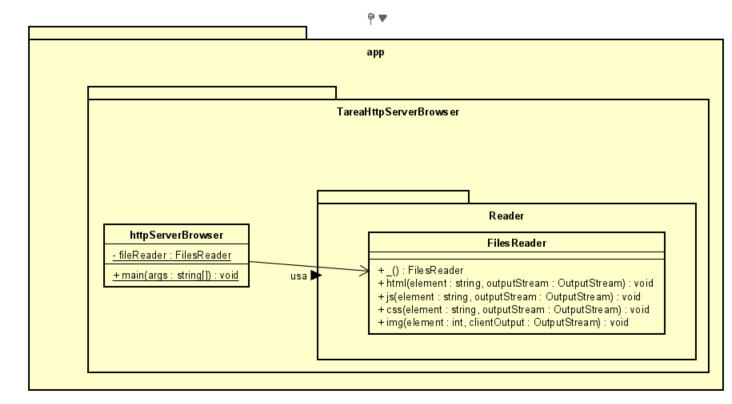
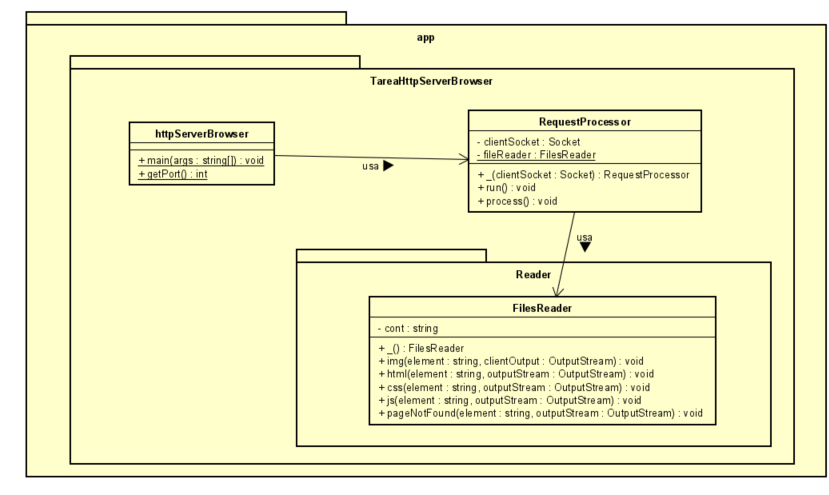
Tarea Finalizada

Changed region(s): [[0.0301, 0.0, 1.0, 0.9802]]

diff --git a/README.md b/README.md
@@ -1,7 +1,7 @@
 # Tarea ARSW Inter (HttpServer Concurrente que lee imagenes, js, css y html)
 
 ## Autor
-Julian Adolfo Peña Marin
+** Julian Adolfo Peña Marin **
 
 ## Descripcion
 La aplicacion es una version del servidor http realizado anteriormente pero esta vez se hizo que fuera un servisor concurrente, que devuelve archivos con extensiones css que son archivos de estilo, extensiones "js" que son archivos javascript, extensiones "html" que muestra como tal una pagina web y una imagen.
@@ -53,7 +53,11 @@ Para devolver el html, en el siguiente link
     https://cryptic-castle-98984.herokuapp.com/
 ```
 
-Como resultado se obtiene
+Como resultado se obtiene, el mensaje de javascript que es una alerta como se muestra en la siguiente imagen
+
+![](img/imgHtmlJs.png)
+
+Y despues muestra la pagina html con el css aplicado, como se ve en la siguiente imagen
 
 ![](img/herokuHtml.png)
 
@@ -91,4 +95,14 @@ A continuacion se presenta el diagrama de clases de la arquitectura para la tare
 
 ![](img/diagramaClases.png)
 
-Como se puede observar la arquitectura se encuentra dentro de tres paquetes, el primero de ellos es el paquete con nombre app, el cual es el principal y en donde estan contenidos los otros dos, el segundo paquete es el que tiene como nombre TareaHttpServerBrowser, el cual tiene la clase principal y otro paquete de nombre Reader. En la clase principal se tiene el metodo main , que es donde esta la implementacion del servidor y en donde verifica la extension del archivo que le llega al path, una vez verificado llama a uno de los metodos de la clase que esta en el paquete Reader para obtener el resultado correcto.
+Como se puede observar la arquitectura se encuentra dentro de tres paquetes, el primero de ellos es el paquete con nombre app, el cual es el principal y en donde estan contenidos los otros dos, el segundo paquete es el que tiene como nombre TareaHttpServerBrowser, el cual tiene la clase principal y otra clase de nombre RequestProcessor que implementa Runnable y trabaja como un hilo atendiendo las conexiones y otro paquete de nombre Reader. En la clase principal se tiene el metodo main , que es donde esta la implementacion del servidor y en donde instancia la clase RequestProcesor, quien es la que se encarga de verificar el tipo de archivo que llega en el path, para despues llamar a uno de los metodos de la clase que esta en el paquete Reader para obtener el resultado correcto.
+
+## Built con
+
+* [Maven](https://maven.apache.org/) - Dependency Management
+* [JAVA JDK 8](http://www.oracle.com/technetwork/java/javase/overview/index.html) - construcción
+
+
+## Licencia
+
+This project is licensed under the GNU General Public License - see the [LICENSE](LICENSE) file for details
